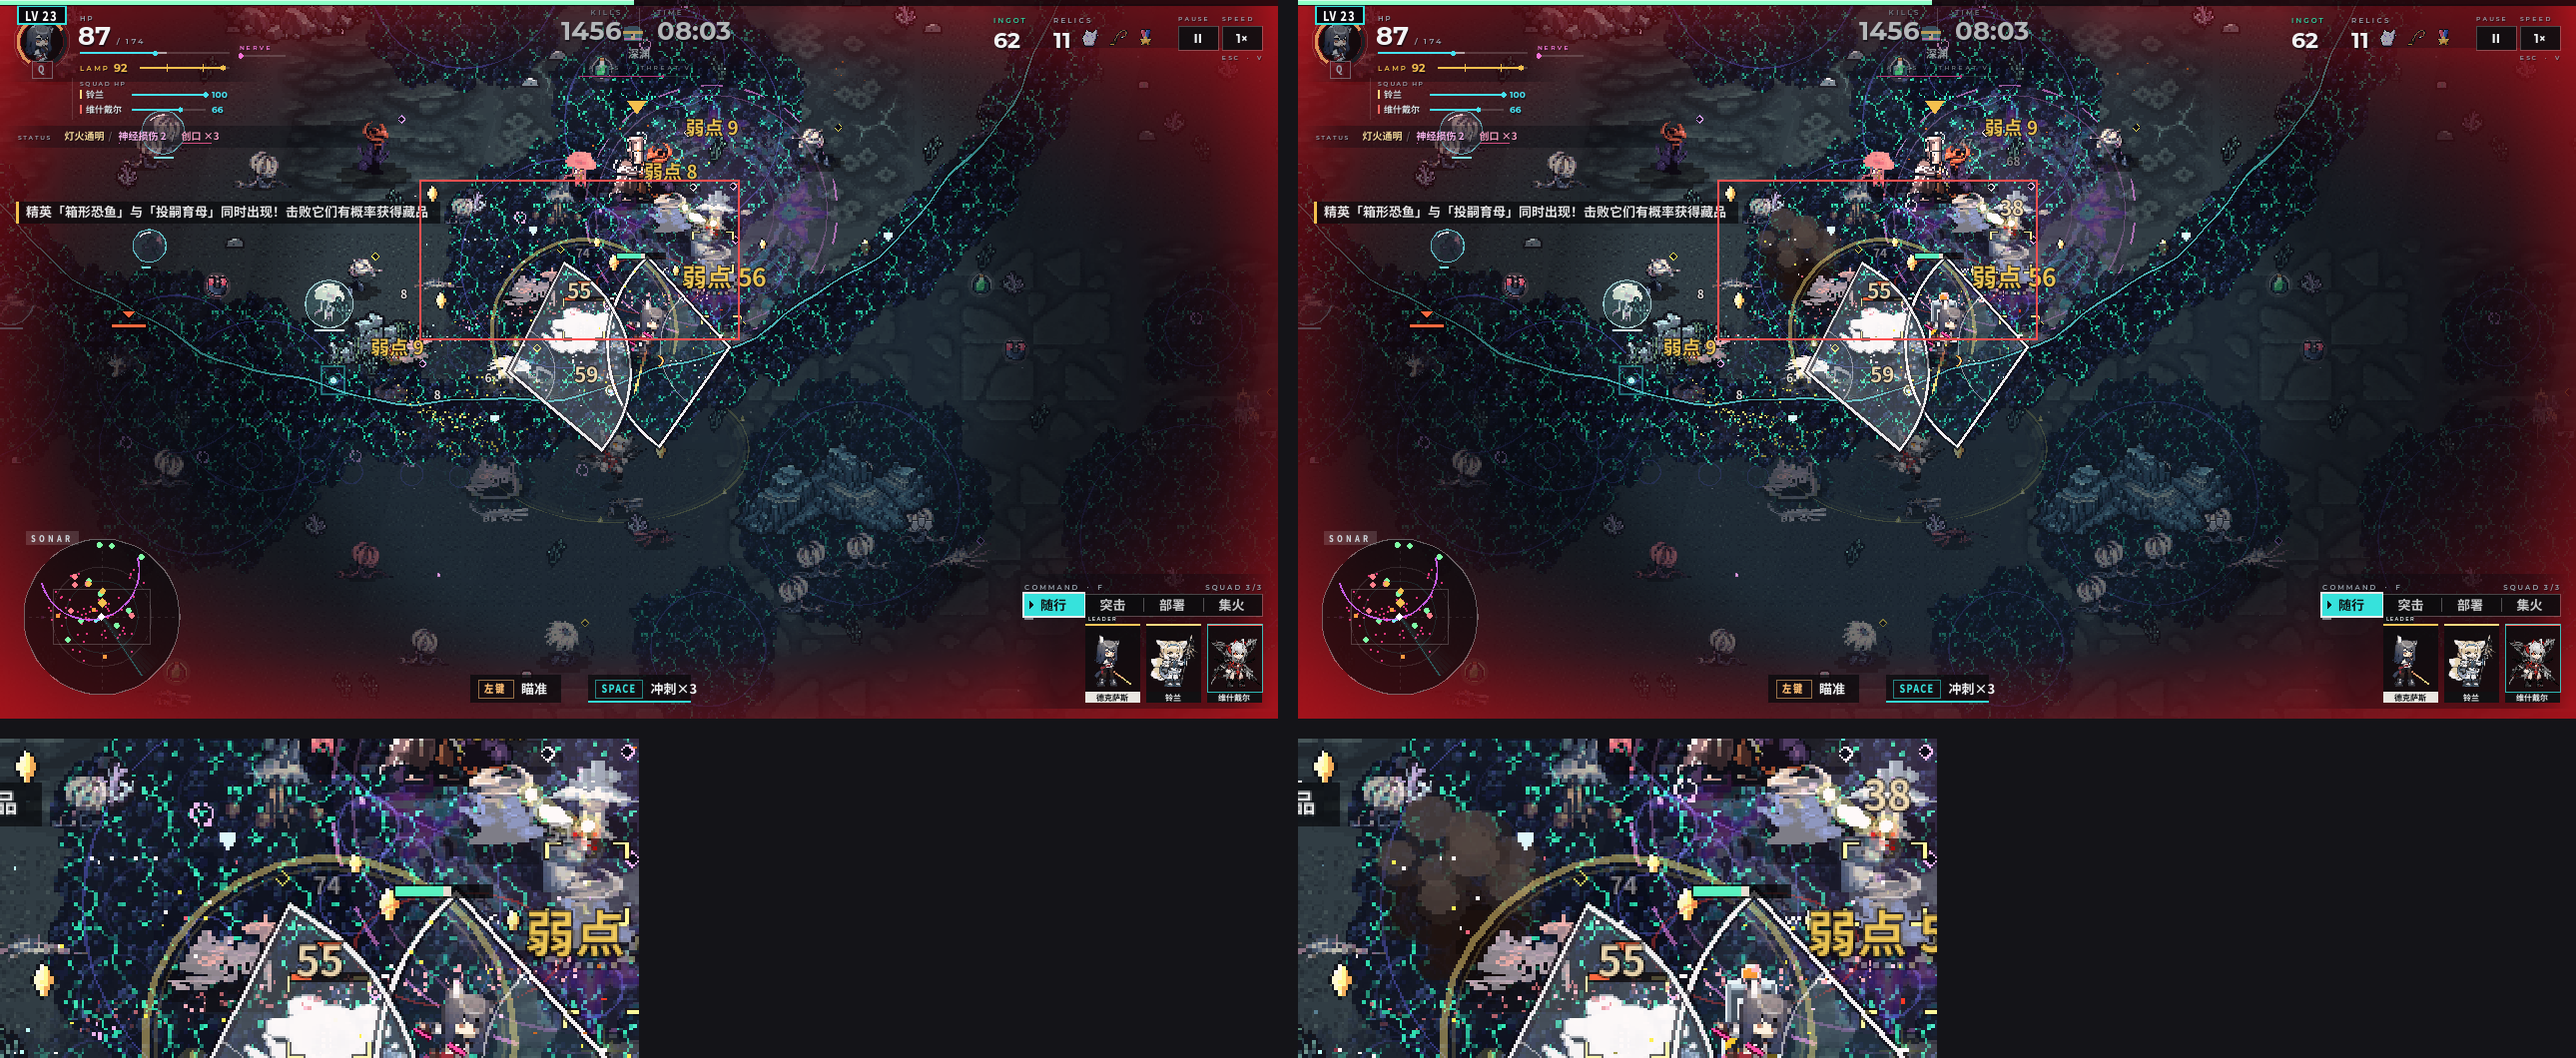
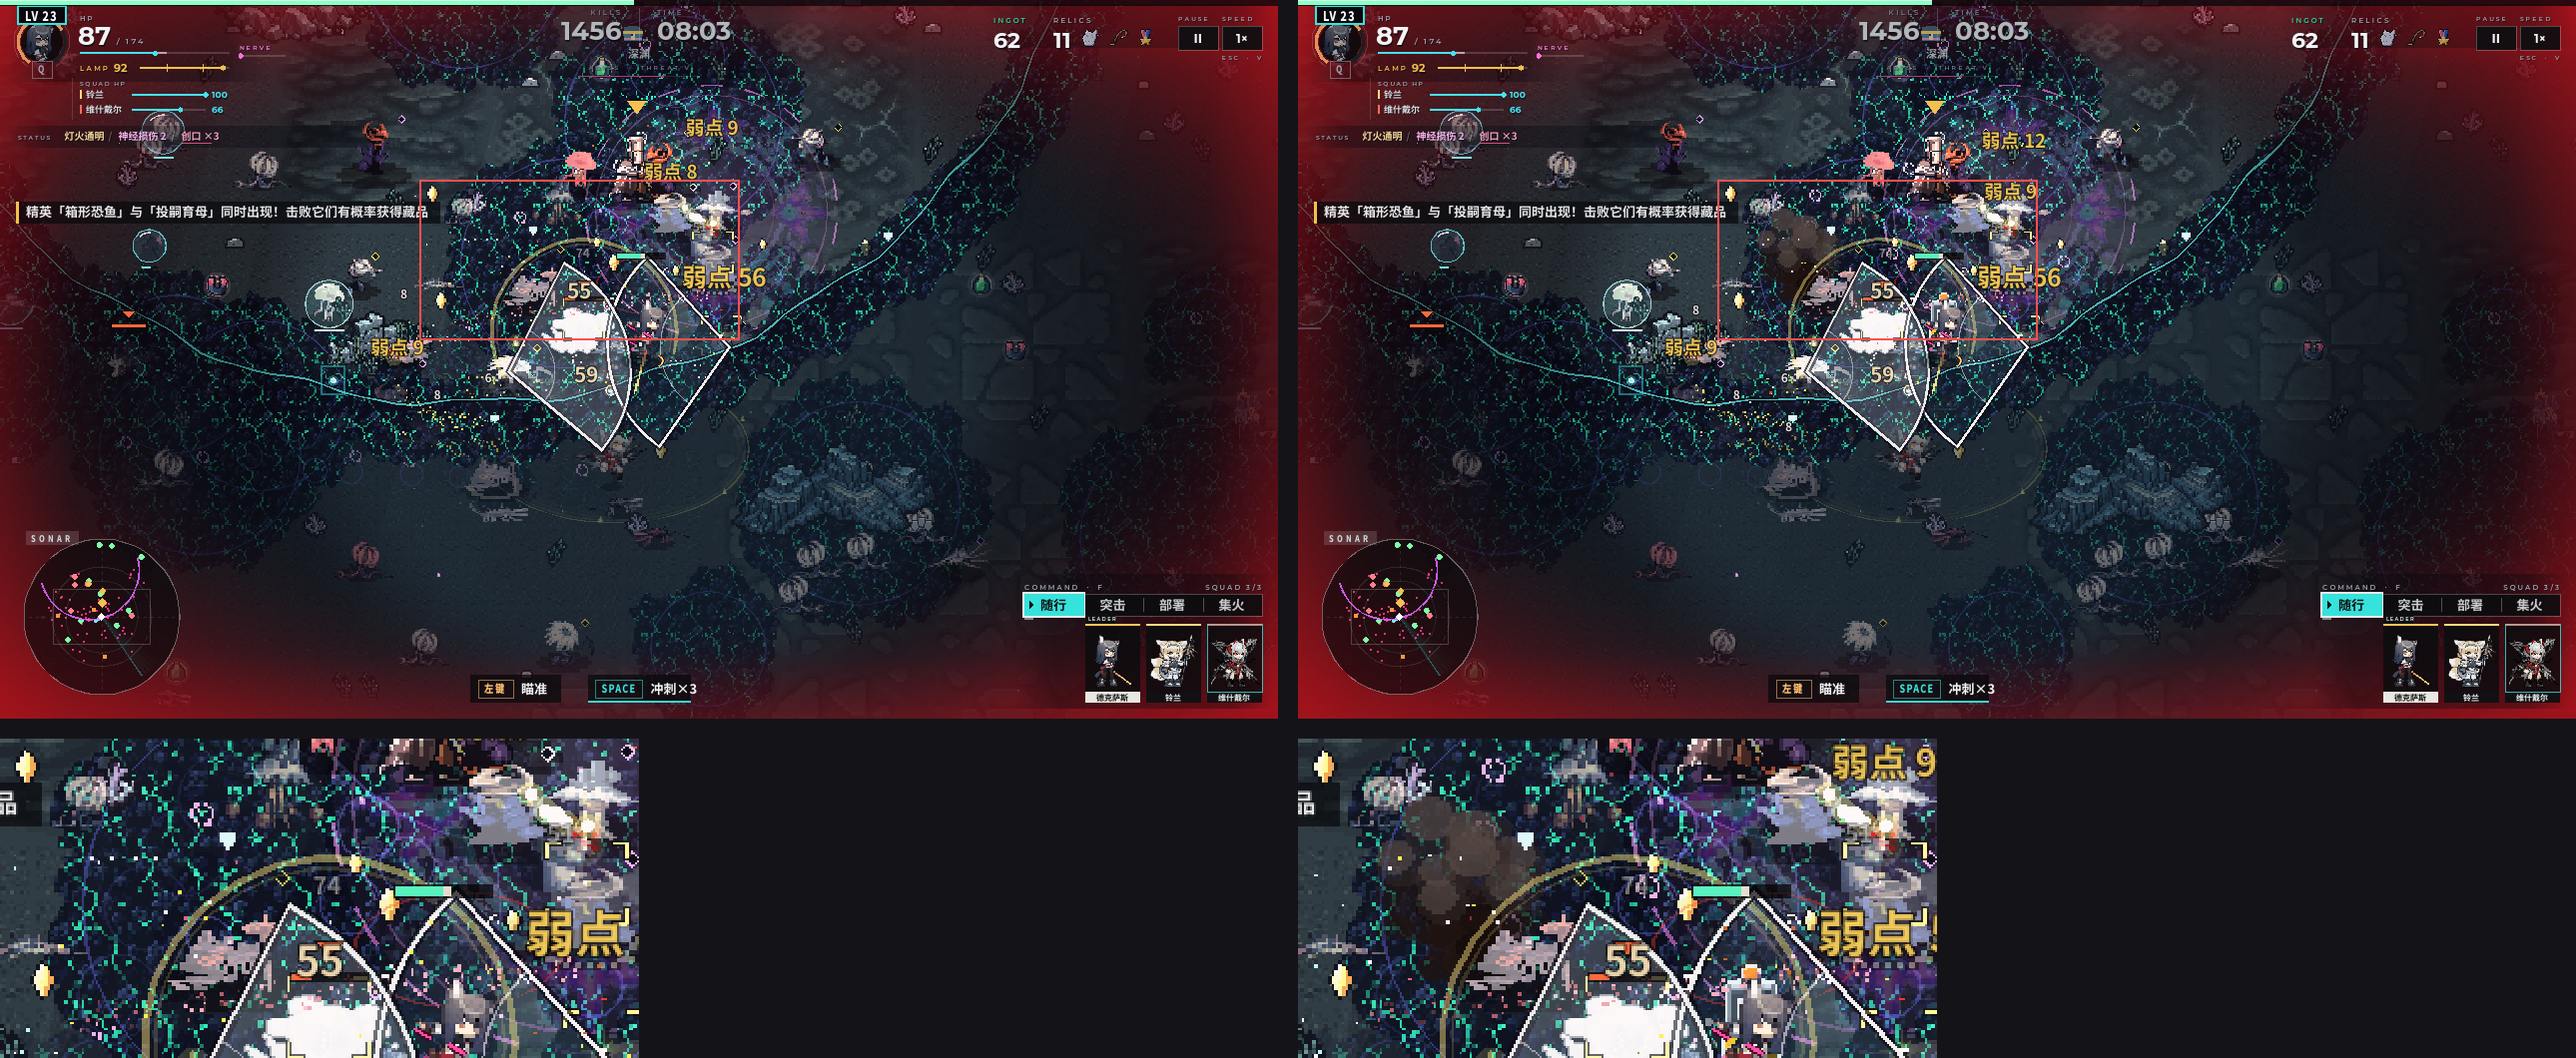
放置物：轰隆隆按原作正面造型重画（用户 11-05「像狗，原本更像阔剑地雷」）
- 宽扁弧面装甲板（正面略内凹、两端圆角后收）、白色菱形徽记套小菱形、深色横槽、两侧散热横纹
- 三条向外张开的细长支脚，两帧交替抬脚；顶部一侧天线 + 薄荷绿灯
- 保持正面视角：行走左右轻晃，上半身朝移动方向错 1 美术像素；呼吸亮点在小菱形上
- 地雷 / 防暴桩 / 爆炸不变；同种子 TRACE 开关开仍与基线逐行相同（无头 600 秒、xvfb 渲染 495 秒）
- 重出 single_3x / compare_0300 / compare_0800，docs/245 同步

Claude-Session: https://claude.ai/code/session_01XbT99h4mAL4geuqtWWQEyR

diff --git a/docs/245_placeables_redraw_1105.md b/docs/245_placeables_redraw_1105.md
@@ -24,7 +24,7 @@
 | 装置 | 尺寸 | 要素 |
 |---|---|---|
 | 地雷 | 56×36（规格 ≥ 52×32） | 黑色方底座；四条 X 形装甲板臂，橄榄绿，朝上半边亮一档，有深色横缝、下沿厚度和端面；中心橙红芯 #ff6a2e。地面一圈黄色虚线警示纹（12 段，慢转），剩 2 秒时闪烁。**四臂尖连成的外框内不描边**，臂间空隙透出地面和影子，不会被描成白线 |
-| 轰隆隆 | 48×44（≥ 44×40） | 灰色圆角机身、面板接缝；正面白色菱形徽记，徽记上方一道传感窗；前翼朝前；天线在后，天线灯薄荷绿 #3fe0a0。四条短腿两帧交替（抬腿 2 格 + 前迈 1 格），按走过的距离换帧，走路时机身一颠一颠；按横向位移左右翻转，所以看得出朝向。出发时跳一下，寿命剩 1.2 秒时机身急闪、天线灯加快 |
+| 轰隆隆（11-05 第二稿） | 46×40（≥ 44×36） | 正面视角，造型像阔剑地雷：宽而扁的弧面装甲板（19×9 美术像素，正面略内凹、中段略暗，两端向后收成圆角并暗一档）；正面中央白色菱形徽记套一个灰蓝小菱形，下方一道深色横槽，两侧各 3 道散热横纹；底下三条细长支脚向外张开（中间一条在后、暗），两帧交替抬左 / 右脚；天线从顶部右侧伸出，顶端薄荷绿灯 #3fe0a0。不转侧面：行走时左右轻微晃动，上半身朝移动方向错 1 美术像素（贴图分上下两段画）。呼吸亮点在小菱形上。出发时跳一下，寿命剩 1.2 秒时急闪 |
 | 防暴桩 | 36×60（≥ 32×56） | 底座斜向警示纹；金属框（顶梁 + 两根立柱）、方箱、白色标牌（感叹号）；顶上琥珀灯 #ff9a2a。放下时从上方落下，两侧扬起两团尘 |
 
 - 呼吸亮点：地雷芯、天线灯、琥珀灯，按 sin 调亮度（保持本色），左上一格高光，外面一圈很淡的像素化光晕。
@@ -33,7 +33,7 @@
 
 ![单件 3 倍](assets/placeables_v2/single_3x.png)
 
-单件 3 倍放大（展示脚本、纯色地面）：从上到下是防暴桩三套色板 0 / 1 / 2；轰隆隆朝右、朝左各一，腿是不同帧。
+单件 3 倍放大（展示脚本、纯色地面）：从上到下是防暴桩三套色板 0 / 1 / 2；两只轰隆隆的支脚是不同帧。
 
 ## 3. 触发与爆炸
 
@@ -67,7 +67,7 @@
 
 开局直接给 210 / 211 / 213，seed 11，德克萨斯，xvfb + opengl3，1280×720。上排左关右开，下排是红框处 2 倍放大。
 
-- 3:00（帧 2754）：旧画法轰隆隆是一团小灰圆，压在干员脚下的敌人里看不出来；新画法机身、天线灯和描边都看得清。
+- 3:00（帧 2754，轰隆隆为第二稿）：旧画法轰隆隆是一团小灰圆，压在干员脚下的敌人里看不出来；新画法机身、天线灯和描边都看得清。
 
 ![3:00 对照](assets/placeables_v2/compare_0300.png)
 
@@ -82,5 +82,5 @@
 ## 6. 还没做 / 留给后面
 
 - 防暴桩色板等用户选（三套都在单件图里）。
-- 轰隆隆只有左右两个朝向，上下走时保持最后一次的左右朝向。
+- 轰隆隆第一稿（侧面、四条短腿）用户看了说「像狗」，11-05 按原作正面造型重画（见 §2），其余两件没动。
 - 开关转为缺省开之前，最好再看一局实机录像（手感和后期满屏遮挡）。帧时开销：每件装置一次贴图 + 2–3 个矩形；爆炸每帧几十个矩形。没有单独量。
